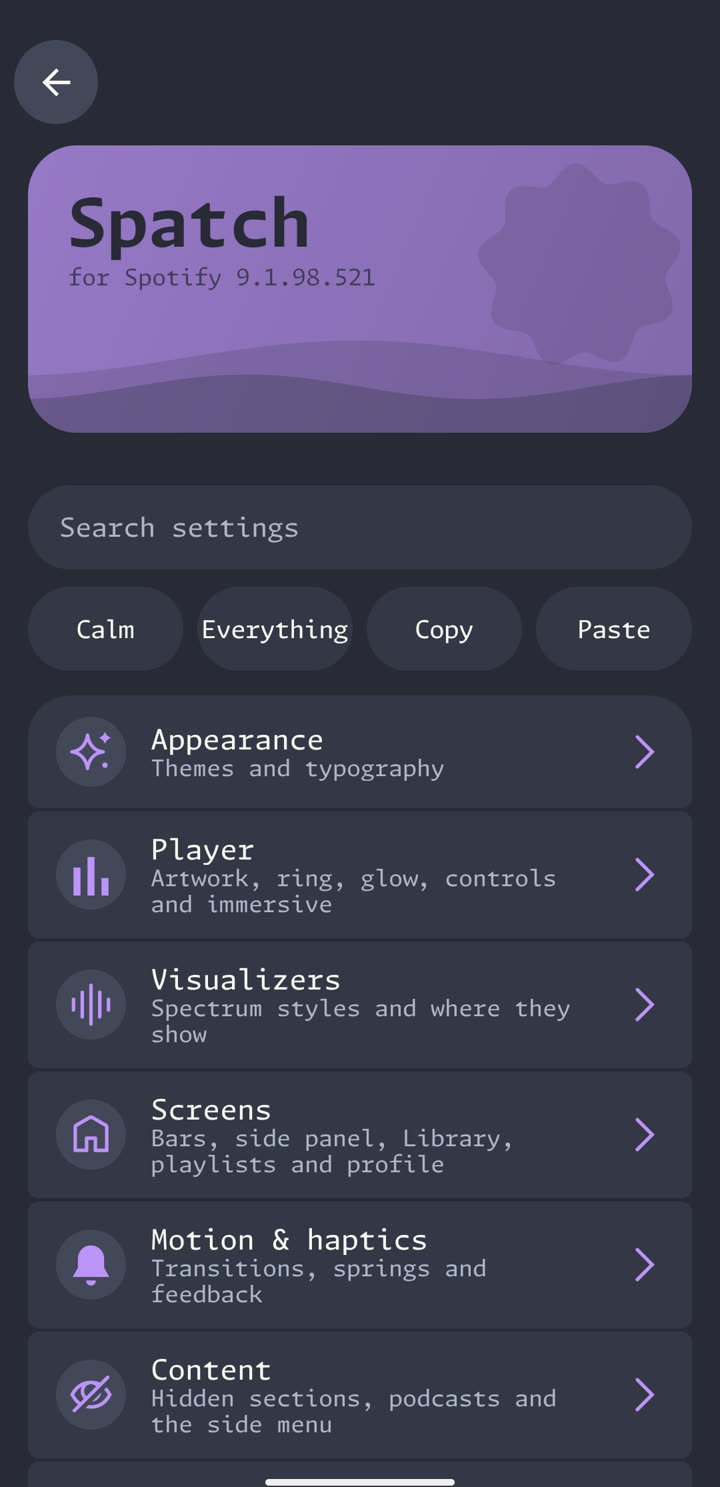
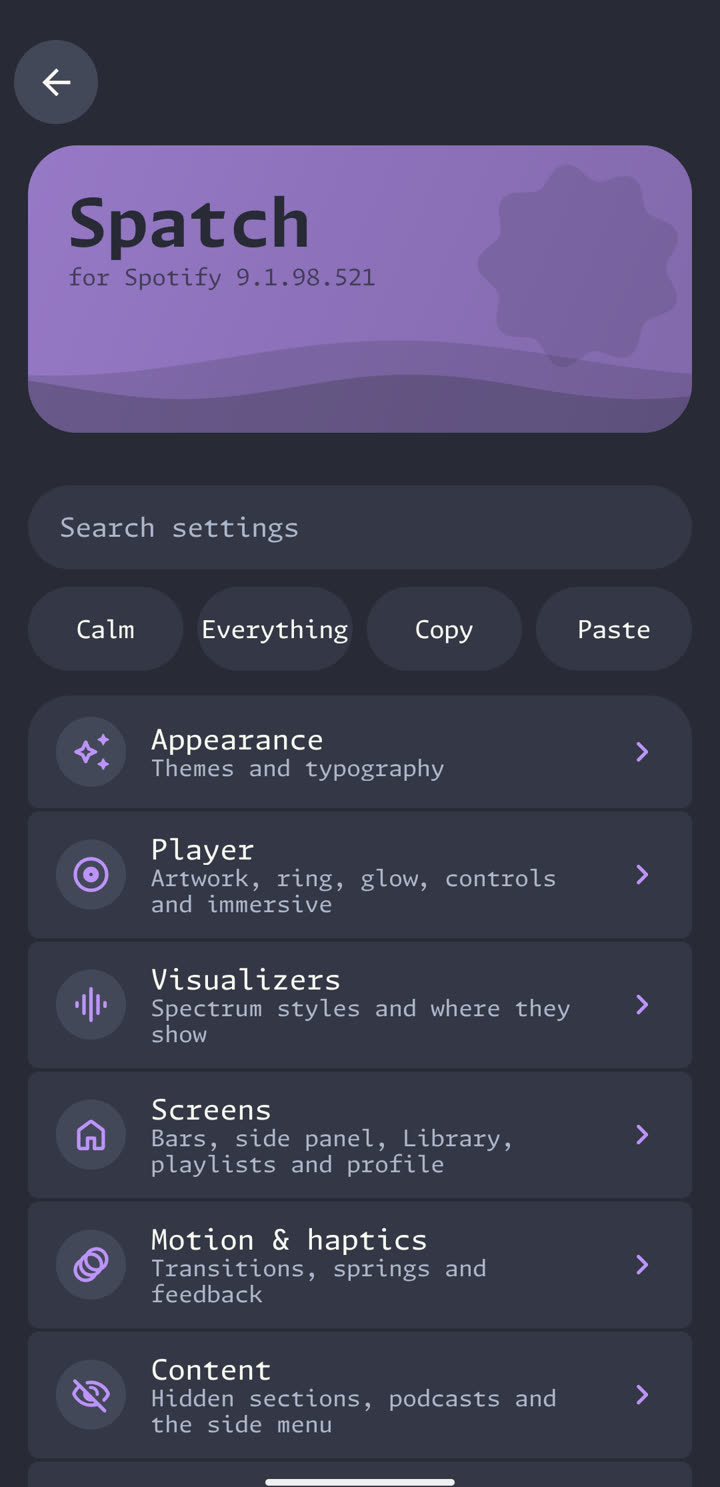
Widget in wallpaper colours; settings with Material Symbols

diff --git a/features.html b/features.html
@@ -29,7 +29,7 @@
 </div><div class="wrap feature" id="widget">
   <div class="reveal"><p class="eyebrow">Widget</p><h2>A widget that fits in</h2><p class="lead">Spatch replaces Spotify's Now Playing widget with a Material You design, in two sizes.</p><ul>
   <li><span class="ms">play_circle</span><span><b>Morphing play button.</b> The scallop grows from five bumps to eight as music starts, and settles back on pause.</span></li><li><span class="ms">equalizer</span><span><b>Bouncing equaliser.</b> Animated by the launcher itself, so it moves without waking the app.</span></li><li><span class="ms">wallpaper</span><span><b>Follows your wallpaper.</b> Turn on Widget follows wallpaper and it takes your Material You colours, light or dark.</span></li></ul></div>
-  <div class="reveal"><div class="card" data-zoom style="padding:16px;cursor:zoom-in"><img src="assets/shots/widget.jpg" alt="Spatch's home-screen widget" style="border-radius:20px" loading="lazy"></div></div>
+  <div class="reveal"><div class="card" data-zoom style="padding:16px;cursor:zoom-in"><img src="assets/shots/widget.jpg" alt="Spatch's home-screen widget" style="border-radius:20px" loading="lazy"></div><div class="card" data-zoom style="padding:16px;cursor:zoom-in;margin-top:16px"><img src="assets/shots/widget_wallpaper.jpg" alt="The widget in wallpaper colours" style="border-radius:20px" loading="lazy"></div><p class="muted" style="text-align:center;font-size:14px;margin-top:10px">Spatch colours, then Widget follows wallpaper</p></div>
 </div><div class="wrap feature flip" id="content">
   <div class="reveal"><p class="eyebrow">Content</p><h2>Only what you want to see</h2><p class="lead">Hide the parts of Spotify you never use. Hiding is cosmetic: nothing is removed from your account.</p><ul><li><span class="ms">podcasts</span><span><b>Podcasts and audiobooks.</b> Drop their filters and shelves from Home.</span></li><li><span class="ms">view_day</span><span><b>Home sections.</b> Pick any section Spotify has shown you and hide it.</span></li><li><span class="ms">menu_open</span><span><b>Side menu.</b> Hide Recents, Listening stats, Your plan and more.</span></li><li><span class="ms">tab</span><span><b>Premium tab.</b> Free accounts can take the Premium tab out of the bottom bar.</span></li></ul></div>
   <div class="phone reveal" data-zoom><img src="assets/shots/library.jpg" alt="Library with Spatch's cards" loading="lazy"></div>
